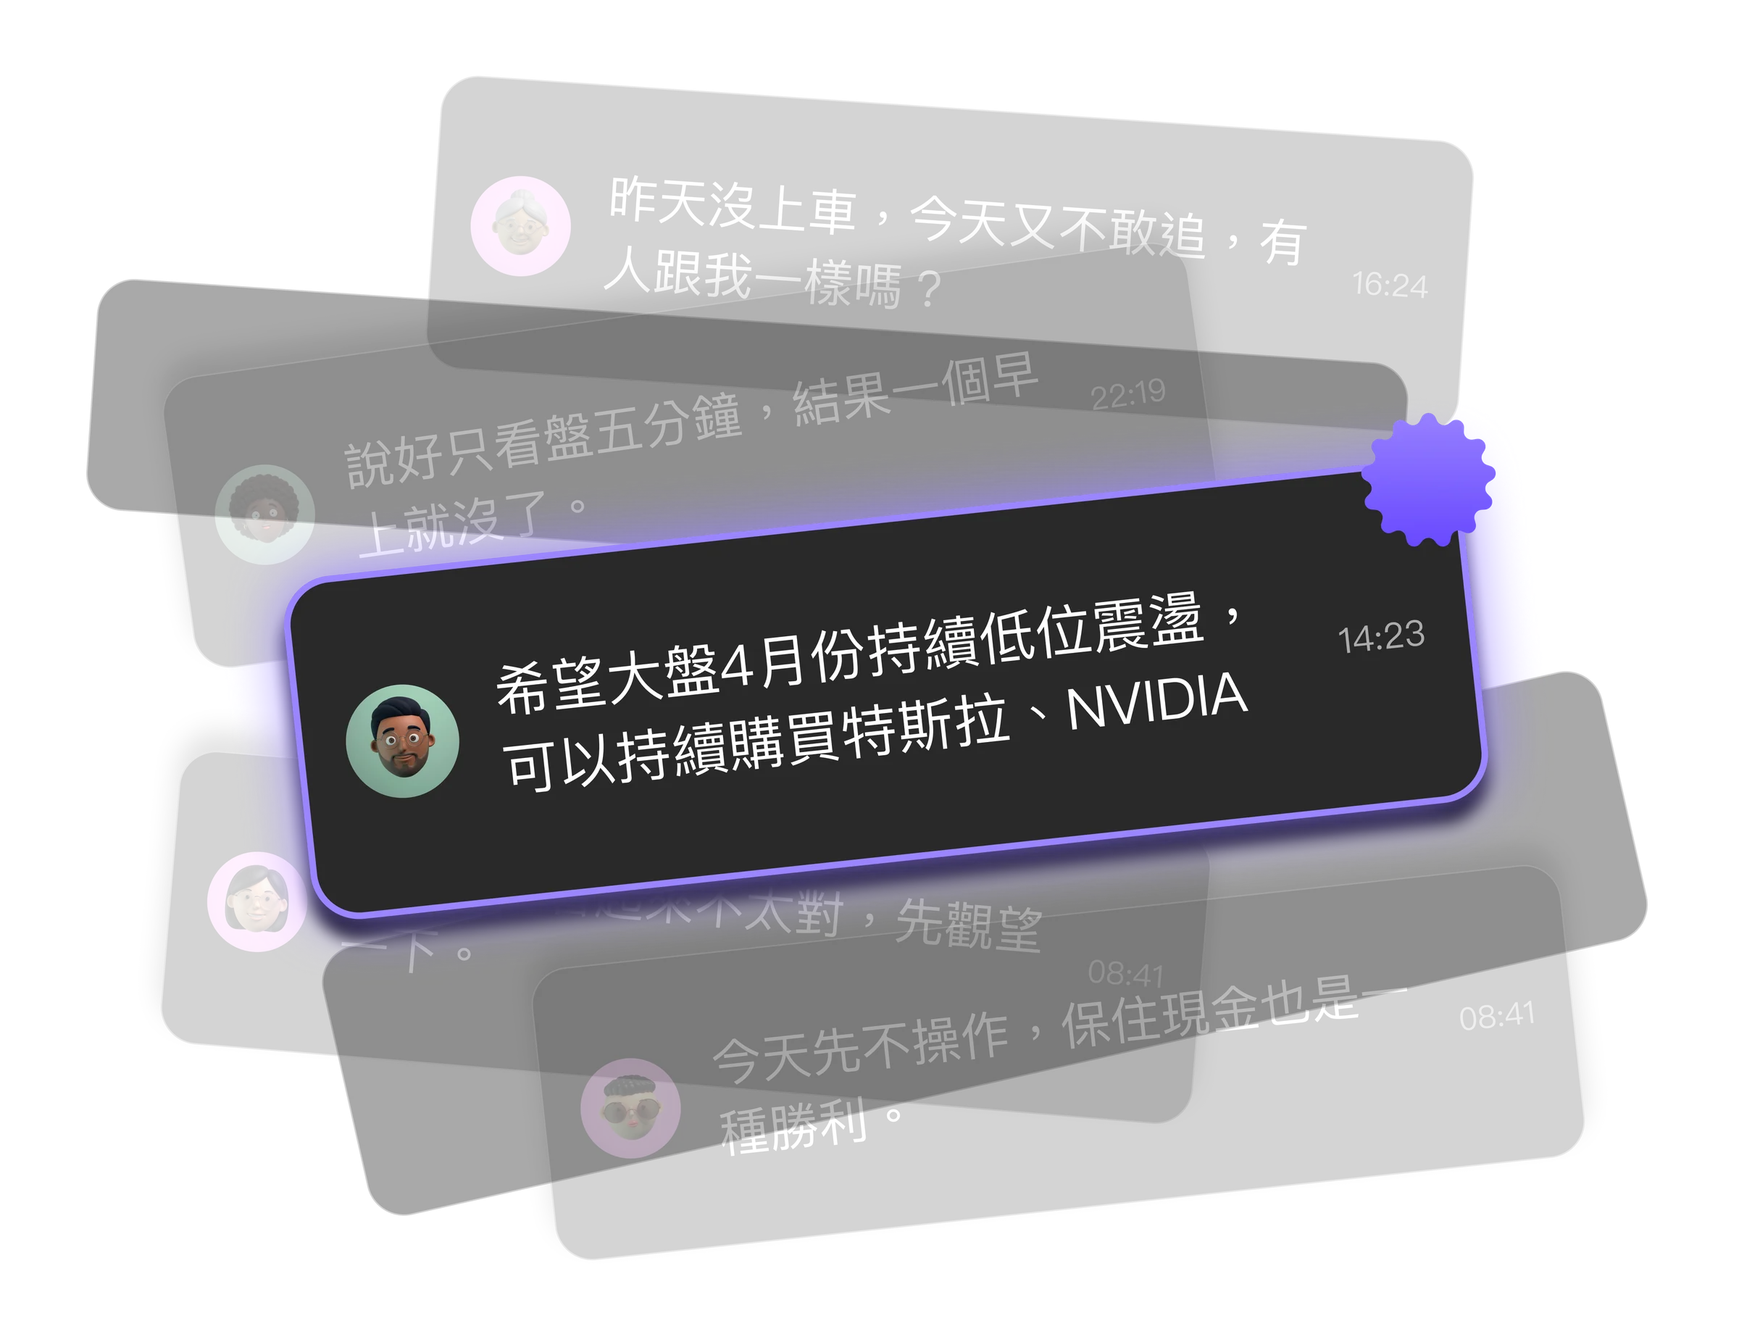
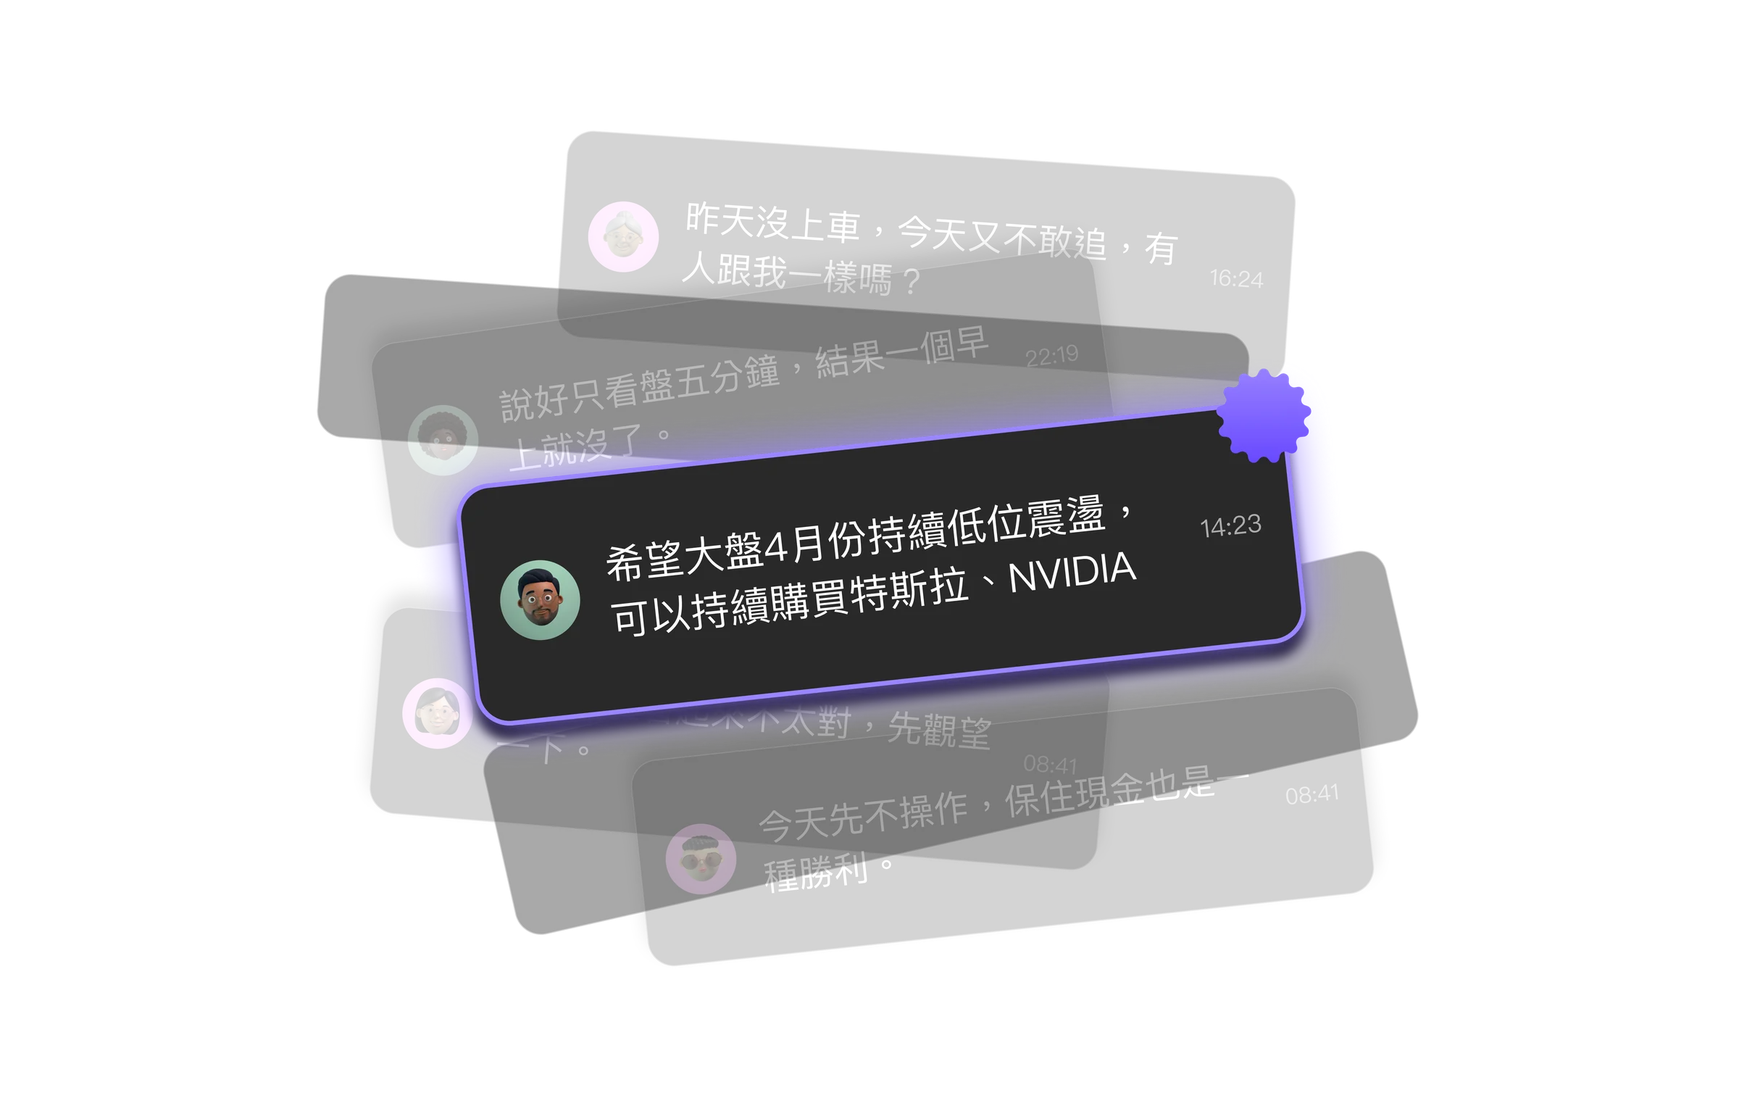
Case 06: updated problem illustration
Claude-Session: https://claude.ai/code/session_01GjEy689vh6dg91TD7dTNVD

diff --git a/works/work-06-chat.html b/works/work-06-chat.html
@@ -38,7 +38,7 @@
     </div>
     <div class="cs-cards"></div>
     <div class="cs-gallery"></div>
-    <section class="cs-sec ch-problem"><header class="cs-sec__head"><p class="eyebrow">The problem</p><h2 class="cs-sec__title">What Went Wrong<small>發生了什麼問題</small></h2></header><p class="ch-big">聊天室沒有搜尋功能，<em>訊息越多，越難找到重要的那一則。</em></p><div class="ch-problem__grid"><div class="ch-pains"><article class="ch-pain"><span class="ch-pain__no">01</span><h3>找不到</h3><p>想回顧重要公告、投資事件或作者觀點，只能不斷往上滑，效率低下。</p></article><article class="ch-pain"><span class="ch-pain__no">02</span><h3>被淹沒</h3><p>關鍵訊息很快被新訊息蓋過，降低了訊息本身的價值。</p></article><article class="ch-pain"><span class="ch-pain__no">03</span><h3>不想留</h3><p>訊息量快速累積，用戶對聊天室的黏著度可能下降。</p></article></div><div class="ch-pimg"><picture><source srcset="../public/works/work-06-chat/web-01.webp?v=1118g" type="image/webp"><img src="../public/works/work-06-chat/web-01.png?v=1118g" width="2400" height="1852" alt="聊天室訊息堆疊，重要訊息被淹沒的示意" loading="lazy" decoding="async"></picture></div></div></section><section class="cs-sec"><header class="cs-sec__head"><p class="eyebrow">Who needs it</p><h2 class="cs-sec__title">User Stories<small>誰需要這個功能</small></h2></header><div class="ch-users"><article class="ch-user" data-tone="pink"><b>一般用戶</b><p>身為一般用戶，訊息數量龐大時，想輸入關鍵字快速找到過往對話。</p></article><article class="ch-user" data-tone="pink"><b>一般用戶</b><p>身為一般用戶，找到目標訊息後，想點擊直接跳到原位置、回顧上下文。</p></article><article class="ch-user" data-tone="cyan"><b>產品經理／營運</b><p>身為產品經理／營運，想提供穩定快速的搜尋，提高黏著度並維持競爭力。</p></article><article class="ch-user" data-tone="cyan"><b>客服／管理者</b><p>身為客服／管理者，處理糾紛時，想快速找到相關紀錄、降低人力成本。</p></article></div></section><section class="cs-sec"><header class="cs-sec__head"><p class="eyebrow">The solution</p><h2 class="cs-sec__title">How I Solved It<small>我怎麼解決</small></h2><p class="cs-sec__lead">以「找得到 → 看得懂 → 回得去」為主軸：搜尋、看摘要判斷、跳回原訊息檢視上下文。</p></header><div class="ch-rib"><svg class="ch-rib__bg" viewBox="0 0 1200 400" preserveAspectRatio="none" aria-hidden="true"><path d="M-20 250 C 180 140, 300 330, 520 290 S 820 150, 1000 260 S 1180 300, 1230 200" fill="none" stroke="#C2FF0A" stroke-width="54" stroke-linecap="round"/></svg><figure class="ch-rib__step"><figcaption><span>1</span><b>Search</b>輸入關鍵字</figcaption><div class="ch-phone"><picture><source srcset="../public/works/work-06-chat/web-02.webp" type="image/webp"><img src="../public/works/work-06-chat/web-02.jpg" width="1170" height="2532" alt="Search：輸入關鍵字" loading="lazy" decoding="async"></picture></div></figure><span class="ch-rib__arrow" aria-hidden="true">→</span><figure class="ch-rib__step"><figcaption><span>2</span><b>Find</b>看摘要找到目標訊息</figcaption><div class="ch-phone"><picture><source srcset="../public/works/work-06-chat/web-03.webp?v=1118d" type="image/webp"><img src="../public/works/work-06-chat/web-03.jpg?v=1118d" width="1170" height="2532" alt="Find：看摘要找到目標訊息" loading="lazy" decoding="async"></picture></div></figure><span class="ch-rib__arrow" aria-hidden="true">→</span><figure class="ch-rib__step"><figcaption><span>3</span><b>Jump</b>跳回原訊息、回顧上下文</figcaption><div class="ch-phone"><picture><source srcset="../public/works/work-06-chat/web-04.webp?v=1118c" type="image/webp"><img src="../public/works/work-06-chat/web-04.jpg?v=1118c" width="1170" height="2532" alt="Jump：跳回原訊息、回顧上下文" loading="lazy" decoding="async"></picture></div></figure></div></section><section class="cs-sec"><header class="cs-sec__head"><p class="eyebrow">Key decisions</p><h2 class="cs-sec__title">Design Decisions<small>關鍵設計決策</small></h2></header><article class="ch-dec"><div class="ch-dec__img"><div class="ch-sq"><picture><source srcset="../public/works/work-06-chat/web-05.webp?v=1118e" type="image/webp"><img src="../public/works/work-06-chat/web-05.png?v=1118e" width="1200" height="1200" alt="搜尋結果摘要：關鍵字高亮的兩行摘要" loading="lazy" decoding="async"></picture></div></div><div class="ch-dec__txt"><p class="eyebrow">Decision 01</p><h3>Smart Snippet<small>搜尋結果摘要</small></h3><ul><li>每則結果最多兩行，以「關鍵句＋前後句平均擴展」組成摘要，一眼看出上下文</li><li>關鍵字以主色高亮；同一則訊息有多組關鍵字只算一筆結果，但全部高亮</li><li>裁切時絕不切斷關鍵字，超出部分以「…」收尾</li></ul></div></article><article class="ch-dec ch-dec--flip"><div class="ch-dec__img"><div class="ch-sq"><picture><source srcset="../public/works/work-06-chat/web-06.webp?v=1118e" type="image/webp"><img src="../public/works/work-06-chat/web-06.png?v=1118e" width="1200" height="1200" alt="作者／全部雙頁籤與搜尋範圍提示" loading="lazy" decoding="async"></picture></div></div><div class="ch-dec__txt"><p class="eyebrow">Decision 02</p><h3>Two Tabs<small>作者／全部 雙頁籤</small></h3><ul><li>把作者（Mike是麥克）的發言獨立成第一個 Tab，最有價值的觀點優先看到</li><li>預設頁籤規則：作者有結果先選作者；作者無結果自動切到「全部」</li><li>結果上方標註「僅顯示近三個月結果」，讓搜尋範圍透明</li></ul></div></article><article class="ch-dec"><div class="ch-dec__img"><div class="ch-sq"><picture><source srcset="../public/works/work-06-chat/web-07.webp?v=1118e" type="image/webp"><img src="../public/works/work-06-chat/web-07.png?v=1118e" width="1200" height="1200" alt="Highlight 模式：跳回原訊息並可切換上下則" loading="lazy" decoding="async"></picture></div></div><div class="ch-dec__txt"><p class="eyebrow">Decision 03</p><h3>Highlight Mode<small>跳回原訊息檢視</small></h3><ul><li>點擊結果直接跳回聊天室中的原位置，關鍵字以色塊標示</li><li>底部提供 ↑↓ 切換上一則／下一則結果，到頭尾時自動 disable</li><li>「返回搜尋結果」一鍵回到列表，不必重新搜尋</li></ul></div></article></section><section class="cs-sec"><header class="cs-sec__head"><p class="eyebrow">Spec</p><h2 class="cs-sec__title">Every State Covered<small>完整狀態與規格</small></h2><p class="cs-sec__lead">交付給工程的不只畫面，還包含 12 種 UI 狀態、iOS／Android 長按流程與搜尋規則。</p></header><div class="hcar"><div class="hcar__track"><figure class="hcar__item"><div class=hcar__img><picture><source srcset="../public/works/work-06-chat/web-08.webp?v=1118f" type="image/webp"><img src="../public/works/work-06-chat/web-08.png?v=1118f" width="1200" height="2147" alt="搜尋錯誤" loading="lazy" decoding="async"></picture></div><figcaption>搜尋錯誤</figcaption></figure><figure class="hcar__item"><div class=hcar__img><picture><source srcset="../public/works/work-06-chat/web-09.webp" type="image/webp"><img src="../public/works/work-06-chat/web-09.jpg" width="1200" height="2147" alt="查詢無結果" loading="lazy" decoding="async"></picture></div><figcaption>查詢無結果</figcaption></figure><figure class="hcar__item"><div class="ph" style="aspect-ratio:1200/2147"><span><b>配圖</b>畫面待提供</span></div><figcaption>Loading</figcaption></figure><figure class="hcar__item"><div class="ph" style="aspect-ratio:1200/2147"><span><b>配圖</b>畫面待提供</span></div><figcaption>只輸入一個關鍵字</figcaption></figure><figure class="hcar__item"><div class="ph" style="aspect-ratio:1200/2147"><span><b>配圖</b>畫面待提供</span></div><figcaption>Tab 最大寬度</figcaption></figure><figure class="hcar__item"><div class="ph" style="aspect-ratio:1200/2147"><span><b>配圖</b>畫面待提供</span></div><figcaption>Tab 名稱過長</figcaption></figure><figure class="hcar__item"><div class="ph" style="aspect-ratio:1200/2147"><span><b>配圖</b>畫面待提供</span></div><figcaption>往下載入</figcaption></figure><figure class="hcar__item"><div class="ph" style="aspect-ratio:1200/2147"><span><b>配圖</b>畫面待提供</span></div><figcaption>載入至最底部</figcaption></figure><figure class="hcar__item"><div class="ph" style="aspect-ratio:1200/2147"><span><b>配圖</b>畫面待提供</span></div><figcaption>訊息為一行</figcaption></figure><figure class="hcar__item"><div class="ph" style="aspect-ratio:1200/2147"><span><b>配圖</b>畫面待提供</span></div><figcaption>被引用訊息不 highlight</figcaption></figure><figure class="hcar__item"><div class="ph" style="aspect-ratio:1200/2147"><span><b>配圖</b>畫面待提供</span></div><figcaption>第一則：上一則 disable</figcaption></figure><figure class="hcar__item"><div class="ph" style="aspect-ratio:1200/2147"><span><b>配圖</b>畫面待提供</span></div><figcaption>最後一則：下一則 disable</figcaption></figure></div><div class="kl-dots hcar__dots"></div></div></section><section class="cs-sec ch-result"><header class="cs-sec__head"><p class="eyebrow">Outcome</p><h2 class="cs-sec__title">What Happened Next<small>後續成果</small></h2></header><p class="ch-big ch-big--sm">規格完整交付工程，<em>iOS／Android 雙平台上線。</em></p></section>
+    <section class="cs-sec ch-problem"><header class="cs-sec__head"><p class="eyebrow">The problem</p><h2 class="cs-sec__title">What Went Wrong<small>發生了什麼問題</small></h2></header><p class="ch-big">聊天室沒有搜尋功能，<em>訊息越多，越難找到重要的那一則。</em></p><div class="ch-problem__grid"><div class="ch-pains"><article class="ch-pain"><span class="ch-pain__no">01</span><h3>找不到</h3><p>想回顧重要公告、投資事件或作者觀點，只能不斷往上滑，效率低下。</p></article><article class="ch-pain"><span class="ch-pain__no">02</span><h3>被淹沒</h3><p>關鍵訊息很快被新訊息蓋過，降低了訊息本身的價值。</p></article><article class="ch-pain"><span class="ch-pain__no">03</span><h3>不想留</h3><p>訊息量快速累積，用戶對聊天室的黏著度可能下降。</p></article></div><div class="ch-pimg"><picture><source srcset="../public/works/work-06-chat/web-01.webp?v=1118h" type="image/webp"><img src="../public/works/work-06-chat/web-01.png?v=1118h" width="2400" height="1515" alt="聊天室訊息堆疊，重要訊息被淹沒的示意" loading="lazy" decoding="async"></picture></div></div></section><section class="cs-sec"><header class="cs-sec__head"><p class="eyebrow">Who needs it</p><h2 class="cs-sec__title">User Stories<small>誰需要這個功能</small></h2></header><div class="ch-users"><article class="ch-user" data-tone="pink"><b>一般用戶</b><p>身為一般用戶，訊息數量龐大時，想輸入關鍵字快速找到過往對話。</p></article><article class="ch-user" data-tone="pink"><b>一般用戶</b><p>身為一般用戶，找到目標訊息後，想點擊直接跳到原位置、回顧上下文。</p></article><article class="ch-user" data-tone="cyan"><b>產品經理／營運</b><p>身為產品經理／營運，想提供穩定快速的搜尋，提高黏著度並維持競爭力。</p></article><article class="ch-user" data-tone="cyan"><b>客服／管理者</b><p>身為客服／管理者，處理糾紛時，想快速找到相關紀錄、降低人力成本。</p></article></div></section><section class="cs-sec"><header class="cs-sec__head"><p class="eyebrow">The solution</p><h2 class="cs-sec__title">How I Solved It<small>我怎麼解決</small></h2><p class="cs-sec__lead">以「找得到 → 看得懂 → 回得去」為主軸：搜尋、看摘要判斷、跳回原訊息檢視上下文。</p></header><div class="ch-rib"><svg class="ch-rib__bg" viewBox="0 0 1200 400" preserveAspectRatio="none" aria-hidden="true"><path d="M-20 250 C 180 140, 300 330, 520 290 S 820 150, 1000 260 S 1180 300, 1230 200" fill="none" stroke="#C2FF0A" stroke-width="54" stroke-linecap="round"/></svg><figure class="ch-rib__step"><figcaption><span>1</span><b>Search</b>輸入關鍵字</figcaption><div class="ch-phone"><picture><source srcset="../public/works/work-06-chat/web-02.webp" type="image/webp"><img src="../public/works/work-06-chat/web-02.jpg" width="1170" height="2532" alt="Search：輸入關鍵字" loading="lazy" decoding="async"></picture></div></figure><span class="ch-rib__arrow" aria-hidden="true">→</span><figure class="ch-rib__step"><figcaption><span>2</span><b>Find</b>看摘要找到目標訊息</figcaption><div class="ch-phone"><picture><source srcset="../public/works/work-06-chat/web-03.webp?v=1118d" type="image/webp"><img src="../public/works/work-06-chat/web-03.jpg?v=1118d" width="1170" height="2532" alt="Find：看摘要找到目標訊息" loading="lazy" decoding="async"></picture></div></figure><span class="ch-rib__arrow" aria-hidden="true">→</span><figure class="ch-rib__step"><figcaption><span>3</span><b>Jump</b>跳回原訊息、回顧上下文</figcaption><div class="ch-phone"><picture><source srcset="../public/works/work-06-chat/web-04.webp?v=1118c" type="image/webp"><img src="../public/works/work-06-chat/web-04.jpg?v=1118c" width="1170" height="2532" alt="Jump：跳回原訊息、回顧上下文" loading="lazy" decoding="async"></picture></div></figure></div></section><section class="cs-sec"><header class="cs-sec__head"><p class="eyebrow">Key decisions</p><h2 class="cs-sec__title">Design Decisions<small>關鍵設計決策</small></h2></header><article class="ch-dec"><div class="ch-dec__img"><div class="ch-sq"><picture><source srcset="../public/works/work-06-chat/web-05.webp?v=1118e" type="image/webp"><img src="../public/works/work-06-chat/web-05.png?v=1118e" width="1200" height="1200" alt="搜尋結果摘要：關鍵字高亮的兩行摘要" loading="lazy" decoding="async"></picture></div></div><div class="ch-dec__txt"><p class="eyebrow">Decision 01</p><h3>Smart Snippet<small>搜尋結果摘要</small></h3><ul><li>每則結果最多兩行，以「關鍵句＋前後句平均擴展」組成摘要，一眼看出上下文</li><li>關鍵字以主色高亮；同一則訊息有多組關鍵字只算一筆結果，但全部高亮</li><li>裁切時絕不切斷關鍵字，超出部分以「…」收尾</li></ul></div></article><article class="ch-dec ch-dec--flip"><div class="ch-dec__img"><div class="ch-sq"><picture><source srcset="../public/works/work-06-chat/web-06.webp?v=1118e" type="image/webp"><img src="../public/works/work-06-chat/web-06.png?v=1118e" width="1200" height="1200" alt="作者／全部雙頁籤與搜尋範圍提示" loading="lazy" decoding="async"></picture></div></div><div class="ch-dec__txt"><p class="eyebrow">Decision 02</p><h3>Two Tabs<small>作者／全部 雙頁籤</small></h3><ul><li>把作者（Mike是麥克）的發言獨立成第一個 Tab，最有價值的觀點優先看到</li><li>預設頁籤規則：作者有結果先選作者；作者無結果自動切到「全部」</li><li>結果上方標註「僅顯示近三個月結果」，讓搜尋範圍透明</li></ul></div></article><article class="ch-dec"><div class="ch-dec__img"><div class="ch-sq"><picture><source srcset="../public/works/work-06-chat/web-07.webp?v=1118e" type="image/webp"><img src="../public/works/work-06-chat/web-07.png?v=1118e" width="1200" height="1200" alt="Highlight 模式：跳回原訊息並可切換上下則" loading="lazy" decoding="async"></picture></div></div><div class="ch-dec__txt"><p class="eyebrow">Decision 03</p><h3>Highlight Mode<small>跳回原訊息檢視</small></h3><ul><li>點擊結果直接跳回聊天室中的原位置，關鍵字以色塊標示</li><li>底部提供 ↑↓ 切換上一則／下一則結果，到頭尾時自動 disable</li><li>「返回搜尋結果」一鍵回到列表，不必重新搜尋</li></ul></div></article></section><section class="cs-sec"><header class="cs-sec__head"><p class="eyebrow">Spec</p><h2 class="cs-sec__title">Every State Covered<small>完整狀態與規格</small></h2><p class="cs-sec__lead">交付給工程的不只畫面，還包含 12 種 UI 狀態、iOS／Android 長按流程與搜尋規則。</p></header><div class="hcar"><div class="hcar__track"><figure class="hcar__item"><div class=hcar__img><picture><source srcset="../public/works/work-06-chat/web-08.webp?v=1118f" type="image/webp"><img src="../public/works/work-06-chat/web-08.png?v=1118f" width="1200" height="2147" alt="搜尋錯誤" loading="lazy" decoding="async"></picture></div><figcaption>搜尋錯誤</figcaption></figure><figure class="hcar__item"><div class=hcar__img><picture><source srcset="../public/works/work-06-chat/web-09.webp" type="image/webp"><img src="../public/works/work-06-chat/web-09.jpg" width="1200" height="2147" alt="查詢無結果" loading="lazy" decoding="async"></picture></div><figcaption>查詢無結果</figcaption></figure><figure class="hcar__item"><div class="ph" style="aspect-ratio:1200/2147"><span><b>配圖</b>畫面待提供</span></div><figcaption>Loading</figcaption></figure><figure class="hcar__item"><div class="ph" style="aspect-ratio:1200/2147"><span><b>配圖</b>畫面待提供</span></div><figcaption>只輸入一個關鍵字</figcaption></figure><figure class="hcar__item"><div class="ph" style="aspect-ratio:1200/2147"><span><b>配圖</b>畫面待提供</span></div><figcaption>Tab 最大寬度</figcaption></figure><figure class="hcar__item"><div class="ph" style="aspect-ratio:1200/2147"><span><b>配圖</b>畫面待提供</span></div><figcaption>Tab 名稱過長</figcaption></figure><figure class="hcar__item"><div class="ph" style="aspect-ratio:1200/2147"><span><b>配圖</b>畫面待提供</span></div><figcaption>往下載入</figcaption></figure><figure class="hcar__item"><div class="ph" style="aspect-ratio:1200/2147"><span><b>配圖</b>畫面待提供</span></div><figcaption>載入至最底部</figcaption></figure><figure class="hcar__item"><div class="ph" style="aspect-ratio:1200/2147"><span><b>配圖</b>畫面待提供</span></div><figcaption>訊息為一行</figcaption></figure><figure class="hcar__item"><div class="ph" style="aspect-ratio:1200/2147"><span><b>配圖</b>畫面待提供</span></div><figcaption>被引用訊息不 highlight</figcaption></figure><figure class="hcar__item"><div class="ph" style="aspect-ratio:1200/2147"><span><b>配圖</b>畫面待提供</span></div><figcaption>第一則：上一則 disable</figcaption></figure><figure class="hcar__item"><div class="ph" style="aspect-ratio:1200/2147"><span><b>配圖</b>畫面待提供</span></div><figcaption>最後一則：下一則 disable</figcaption></figure></div><div class="kl-dots hcar__dots"></div></div></section><section class="cs-sec ch-result"><header class="cs-sec__head"><p class="eyebrow">Outcome</p><h2 class="cs-sec__title">What Happened Next<small>後續成果</small></h2></header><p class="ch-big ch-big--sm">規格完整交付工程，<em>iOS／Android 雙平台上線。</em></p></section>
   </div>
 </section>
 

diff --git a/tools/case_extra.py b/tools/case_extra.py
@@ -145,7 +145,7 @@ def chat():
   return (
     f'<section class="cs-sec ch-problem">{sh("The problem","What Went Wrong","發生了什麼問題")}'
     f'<p class="ch-big">聊天室沒有搜尋功能，<em>訊息越多，越難找到重要的那一則。</em></p>'
-    f'<div class="ch-problem__grid"><div class="ch-pains">{ph_html}</div><div class="ch-pimg">{pic(C+"01",2400,1852,"聊天室訊息堆疊，重要訊息被淹沒的示意")}</div></div></section>'
+    f'<div class="ch-problem__grid"><div class="ch-pains">{ph_html}</div><div class="ch-pimg">{pic(C+"01",2400,1515,"聊天室訊息堆疊，重要訊息被淹沒的示意")}</div></div></section>'
     f'<section class="cs-sec">{sh("Who needs it","User Stories","誰需要這個功能")}<div class="ch-users">{us}</div></section>'
     f'<section class="cs-sec">{sh("The solution","How I Solved It","我怎麼解決","以「找得到 → 看得懂 → 回得去」為主軸：搜尋、看摘要判斷、跳回原訊息檢視上下文。")}'
     f'<div class="ch-rib"><svg class="ch-rib__bg" viewBox="0 0 1200 400" preserveAspectRatio="none" aria-hidden="true"><path d="M-20 250 C 180 140, 300 330, 520 290 S 820 150, 1000 260 S 1180 300, 1230 200" fill="none" stroke="#C2FF0A" stroke-width="54" stroke-linecap="round"/></svg>'
